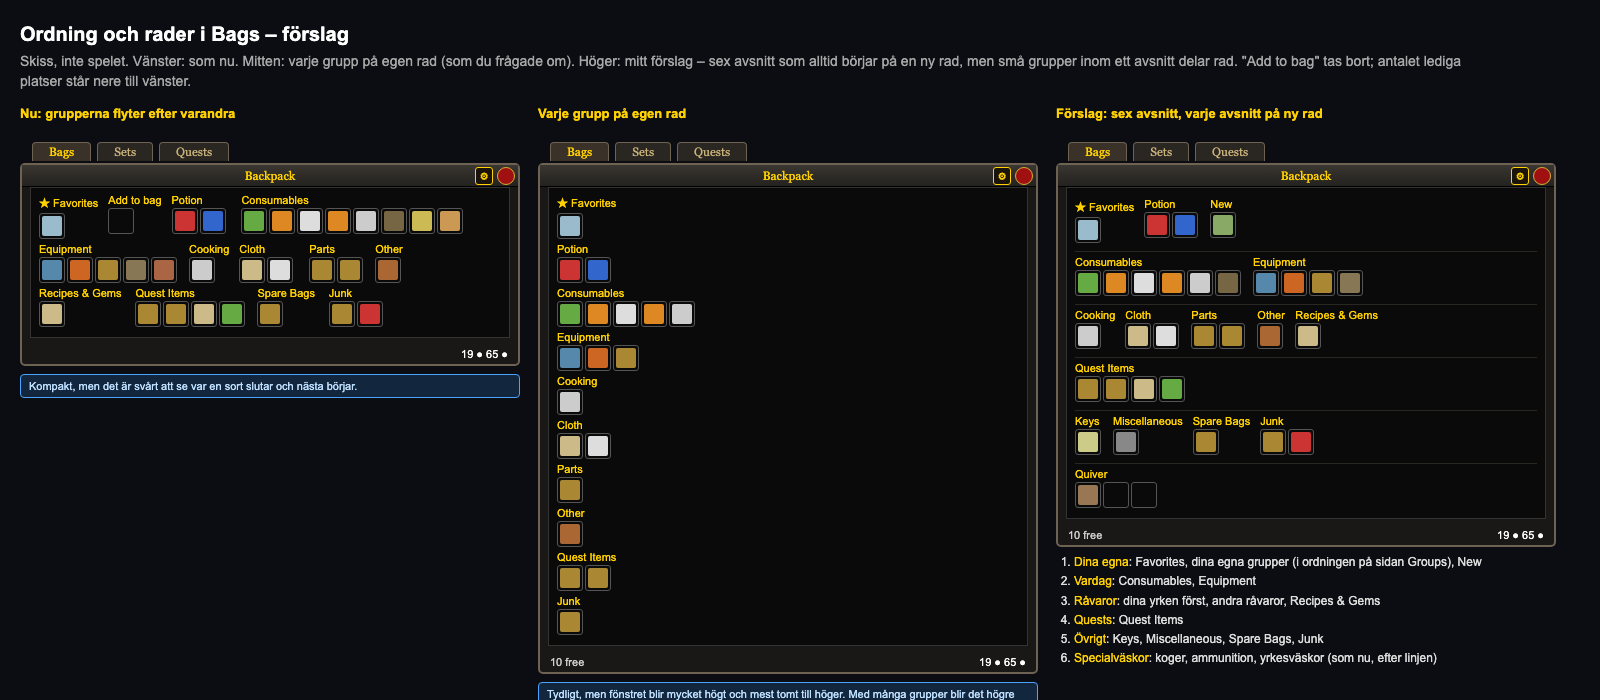
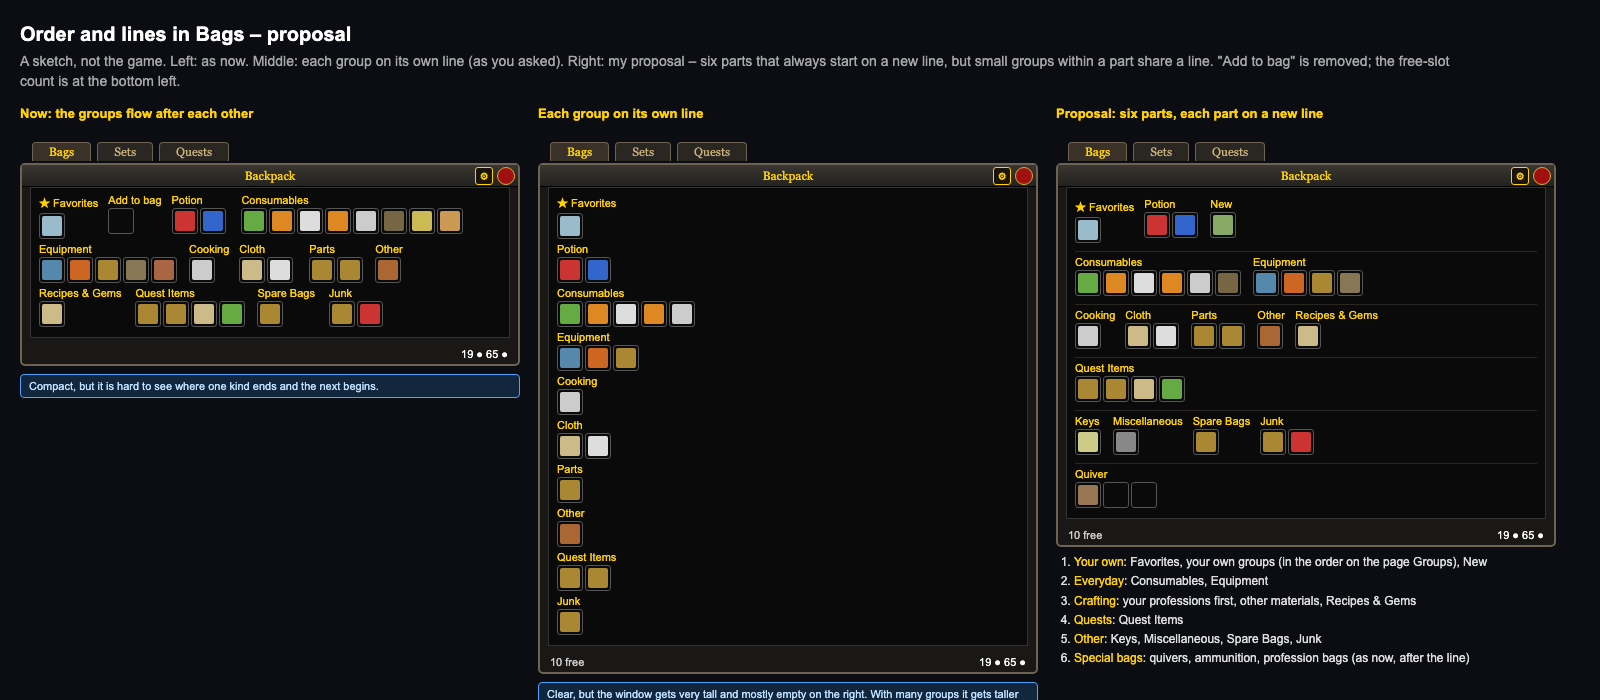
Translate .design/sketch-order to English (#7)

diff --git a/.design/sketch-order.html b/.design/sketch-order.html
@@ -1,4 +1,4 @@
-<!DOCTYPE html><html><head><meta charset="utf-8"><title>Tidy Pack – skiss: ordning och rader</title>
+<!DOCTYPE html><html><head><meta charset="utf-8"><title>Tidy Pack – sketch: order and lines</title>
 <style>
 *{box-sizing:border-box}body{margin:0;padding:20px;background:#0b0d12;color:#d8d8d8;font:14px/1.4 Arial,sans-serif;width:1560px}
 h1{font-size:20px;margin:0 0 4px;color:#fff}.n{color:#a8a8a8;margin:0 0 14px;max-width:1450px}
@@ -17,11 +17,11 @@ h1{font-size:20px;margin:0 0 4px;color:#fff}.n{color:#a8a8a8;margin:0 0 14px;max
 .call{background:#12263d;border:1px solid #4aa3ff;color:#bfe0ff;font:11px/1.3 Arial;padding:4px 8px;border-radius:4px;margin-top:8px}
 ol{margin:6px 0 0 18px;padding:0;font:12px/1.6 Arial;color:#ddd}ol li b{color:#ffd100;font-weight:normal}
 </style></head><body>
-<h1>Ordning och rader i Bags – förslag</h1>
-<p class="n">Skiss, inte spelet. Vänster: som nu. Mitten: varje grupp på egen rad (som du frågade om). Höger: mitt förslag – sex avsnitt som alltid börjar på en ny rad, men små grupper inom ett avsnitt delar rad. "Add to bag" tas bort; antalet lediga platser står nere till vänster.</p>
+<h1>Order and lines in Bags – proposal</h1>
+<p class="n">A sketch, not the game. Left: as now. Middle: each group on its own line (as you asked). Right: my proposal – six parts that always start on a new line, but small groups within a part share a line. "Add to bag" is removed; the free-slot count is at the bottom left.</p>
 <div class="row">
 
-<div class="col"><h2>Nu: grupperna flyter efter varandra</h2><div class="bag">
+<div class="col"><h2>Now: the groups flow after each other</h2><div class="bag">
 <div class="tabs"><div class="tab on">Bags</div><div class="tab">Sets</div><div class="tab">Quests</div></div><div class="t">Backpack<div class="g">⚙</div><div class="x"></div></div>
 <div class="in">
 <div class="gr"><b>★ Favorites</b><span class="sl"><i style="background:#9bc"></i></span></div><div class="gr"><b>Add to bag</b><span class="sl"></span></div><div class="gr"><b>Potion</b><span class="sl"><i style="background:#c33"></i></span><span class="sl"><i style="background:#36c"></i></span></div>
@@ -31,9 +31,9 @@ ol{margin:6px 0 0 18px;padding:0;font:12px/1.6 Arial;color:#ddd}ol li b{color:#f
 <div class="gr"><b>Quest Items</b><span class="sl"><i style="background:#a83"></i></span><span class="sl"><i style="background:#a83"></i></span><span class="sl"><i style="background:#cb8"></i></span><span class="sl"><i style="background:#6a4"></i></span></div><div class="gr"><b>Spare Bags</b><span class="sl"><i style="background:#a83"></i></span></div>
 <div class="gr"><b>Junk</b><span class="sl"><i style="background:#a83"></i></span><span class="sl"><i style="background:#c33"></i></span></div>
 </div><div class="foot"><span></span><span>19 ● 65 ●</span></div></div>
-<div class="call">Kompakt, men det är svårt att se var en sort slutar och nästa börjar.</div></div>
+<div class="call">Compact, but it is hard to see where one kind ends and the next begins.</div></div>
 
-<div class="col"><h2>Varje grupp på egen rad</h2><div class="bag">
+<div class="col"><h2>Each group on its own line</h2><div class="bag">
 <div class="tabs"><div class="tab on">Bags</div><div class="tab">Sets</div><div class="tab">Quests</div></div><div class="t">Backpack<div class="g">⚙</div><div class="x"></div></div>
 <div class="in">
 <div class="gr" style="display:block"><b>★ Favorites</b><span class="sl"><i style="background:#9bc"></i></span></div>
@@ -47,9 +47,9 @@ ol{margin:6px 0 0 18px;padding:0;font:12px/1.6 Arial;color:#ddd}ol li b{color:#f
 <div class="gr" style="display:block"><b>Quest Items</b><span class="sl"><i style="background:#a83"></i></span><span class="sl"><i style="background:#a83"></i></span></div>
 <div class="gr" style="display:block"><b>Junk</b><span class="sl"><i style="background:#a83"></i></span></div>
 </div><div class="foot"><span class="f">10 free</span><span>19 ● 65 ●</span></div></div>
-<div class="call">Tydligt, men fönstret blir mycket högt och mest tomt till höger. Med många grupper blir det högre än skärmen.</div></div>
+<div class="call">Clear, but the window gets very tall and mostly empty on the right. With many groups it gets taller than the screen.</div></div>
 
-<div class="col"><h2>Förslag: sex avsnitt, varje avsnitt på ny rad</h2><div class="bag">
+<div class="col"><h2>Proposal: six parts, each part on a new line</h2><div class="bag">
 <div class="tabs"><div class="tab on">Bags</div><div class="tab">Sets</div><div class="tab">Quests</div></div><div class="t">Backpack<div class="g">⚙</div><div class="x"></div></div>
 <div class="in">
 <div class="sec"><div class="gr"><b>★ Favorites</b><span class="sl"><i style="background:#9bc"></i></span></div><div class="gr"><b>Potion</b><span class="sl"><i style="background:#c33"></i></span><span class="sl"><i style="background:#36c"></i></span></div><div class="gr"><b>New</b><span class="sl"><i style="background:#8a6"></i></span></div></div>
@@ -60,12 +60,12 @@ ol{margin:6px 0 0 18px;padding:0;font:12px/1.6 Arial;color:#ddd}ol li b{color:#f
 <div class="sec"><div class="gr"><b>Quiver</b><span class="sl"><i style="background:#975"></i></span><span class="sl"></span><span class="sl"></span></div></div>
 </div><div class="foot"><span class="f">10 free</span><span>19 ● 65 ●</span></div></div>
 <ol>
-<li><b>Dina egna</b>: Favorites, dina egna grupper (i ordningen på sidan Groups), New</li>
-<li><b>Vardag</b>: Consumables, Equipment</li>
-<li><b>Råvaror</b>: dina yrken först, andra råvaror, Recipes &amp; Gems</li>
+<li><b>Your own</b>: Favorites, your own groups (in the order on the page Groups), New</li>
+<li><b>Everyday</b>: Consumables, Equipment</li>
+<li><b>Crafting</b>: your professions first, other materials, Recipes &amp; Gems</li>
 <li><b>Quests</b>: Quest Items</li>
-<li><b>Övrigt</b>: Keys, Miscellaneous, Spare Bags, Junk</li>
-<li><b>Specialväskor</b>: koger, ammunition, yrkesväskor (som nu, efter linjen)</li>
+<li><b>Other</b>: Keys, Miscellaneous, Spare Bags, Junk</li>
+<li><b>Special bags</b>: quivers, ammunition, profession bags (as now, after the line)</li>
 </ol></div>
 
 </div></body></html>
